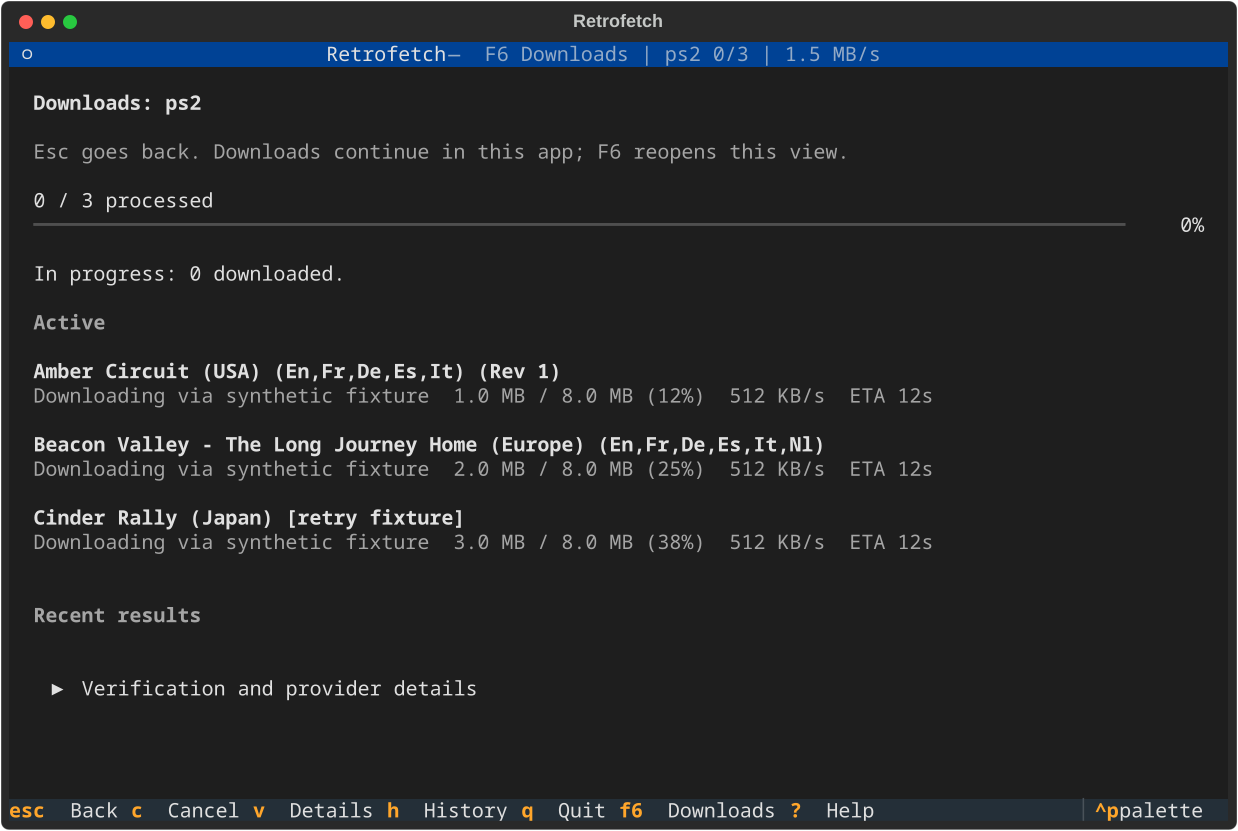
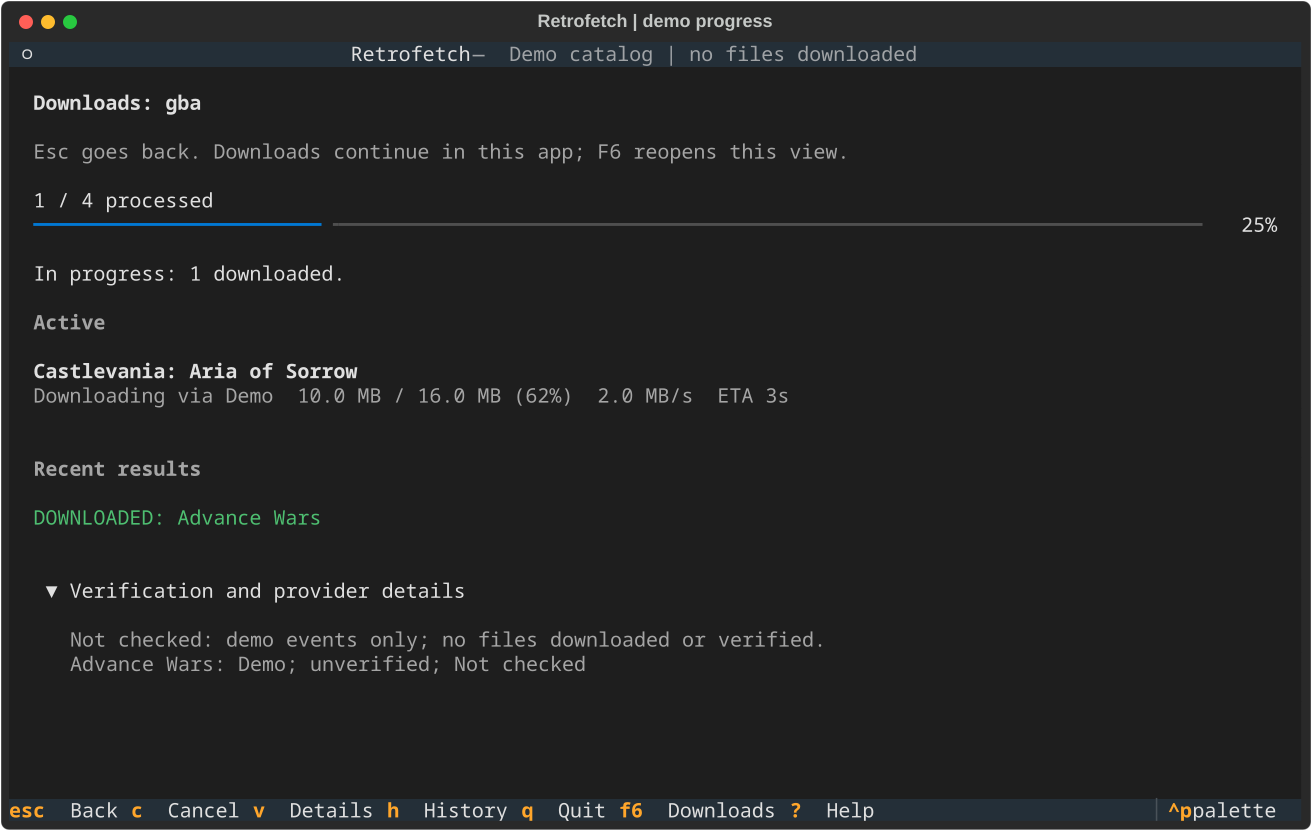
docs: remake README with current app screenshots

diff --git a/README.md b/README.md
@@ -1,127 +1,77 @@
 <p align="center">
-  <img src="docs/assets/retrofetch-logo.png" alt="Retrofetch logo" width="180">
+  <img src="docs/assets/retrofetch-logo.png" alt="Retrofetch logo" width="112">
 </p>
 
 <h1 align="center">Retrofetch</h1>
 
 <p align="center">
-  <strong>A keyboard-first retro game browser, downloader, and verifier.</strong>
+  A keyboard-first retro game browser, downloader, and verifier.
 </p>
 
 <p align="center">
-  <a href="https://github.com/veedy-dev/retrofetch/releases">Downloads</a>
-  &middot; <a href="#install">Setup guide</a>
-  &middot; <a href="#how-it-works">How it works</a>
-  &middot; <a href="#development-and-contributing">Develop and contribute</a>
+  <a href="#download">Download</a>
+  &middot; <a href="#quick-start">Quick start</a>
+  &middot; <a href="#development">Contribute</a>
 </p>
 
-<p align="center">
-  <img alt="Windows" src="https://img.shields.io/badge/Windows-10%2F11-0078D4?logo=windows11&logoColor=white">
-  <img alt="Linux" src="https://img.shields.io/badge/Linux-x86__64-FCC624?logo=linux&logoColor=black">
-  <img alt="macOS" src="https://img.shields.io/badge/macOS-13%2B-000000?logo=apple&logoColor=white">
-  <a href="LICENSE"><img alt="MIT license" src="https://img.shields.io/badge/License-MIT-2ea44f"></a>
-</p>
+![Browsing games and building a queue in Retrofetch](docs/assets/screenshot-library.png)
 
-Retrofetch brings game listings from supported archives and online providers into one terminal app. Search for a console, queue the games you want, and keep browsing while downloads run. It prepares your library; it is not an emulator.
+## Download
 
-Catalogs and download fallbacks follow your configured provider order. No-Intro/Redump naming helps organize listings; a catalog listing alone does not verify a file.
+Get the [latest release](https://github.com/veedy-dev/retrofetch/releases/latest). Packaged builds include Python—just download, extract or install, and open.
 
-> **Please note:** Retrofetch does not include games or firmware. Downloads come from configured archives and online providers, so availability can change. Only download content you are authorized to obtain, following local laws and each provider's terms.
+| Platform | Download | Launch |
+|---|---|---|
+| Windows | [Installer](https://github.com/veedy-dev/retrofetch/releases/latest/download/RetrofetchSetup.exe) · [Portable](https://github.com/veedy-dev/retrofetch/releases/latest/download/Retrofetch.exe) | Run the installer, or open the portable EXE. |
+| Linux x86-64 | [Archive](https://github.com/veedy-dev/retrofetch/releases/latest/download/Retrofetch-linux-x86_64.tar.gz) | Extract, then run `./run-retrofetch.sh`. |
+| macOS | [Apple Silicon](https://github.com/veedy-dev/retrofetch/releases/latest/download/Retrofetch-macos-arm64.tar.gz) · [Intel](https://github.com/veedy-dev/retrofetch/releases/latest/download/Retrofetch-macos-x86_64.tar.gz) | Extract, then Control-click `Retrofetch.command` and choose **Open**. |
 
-![Retrofetch library browser](docs/assets/screenshot-library.png)
+On first launch, choose your library folders. Torrent downloads need qBittorrent; Retrofetch offers setup when it is missing.
 
-## Install
+Builds are unsigned, so Windows or macOS may ask you to confirm the first launch. Download only from this repository.
 
-Choose a platform asset under **Assets** on the [Releases page](https://github.com/veedy-dev/retrofetch/releases), not the source-code ZIP or tarball. The packaged apps include Python.
+## Quick start
 
-### Windows
+1. **Browse.** Search consoles with `/`, then open one with `Enter` from the results.
+2. **Queue.** Press `Space` on games you want. `Ctrl+A` queues all matching results.
+3. **Download.** Press `Enter` to review the queue, then `Enter` again to start.
+4. **Keep browsing.** `Esc` leaves progress without stopping downloads; `F6` brings it back.
 
-1. Open the [Releases page](https://github.com/veedy-dev/retrofetch/releases).
-2. Download **`RetrofetchSetup.exe`**.
-3. Double-click the installer, then open Retrofetch from your desktop or Start menu.
-4. Choose where your games and BIOS files should be stored when the app first opens.
+Keep Retrofetch open while downloading. Quitting asks to stop active transfers safely.
 
-No Python installation or terminal commands are needed.
+## Download progress
 
-> Current builds are not code-signed yet, so Windows may show an **Unknown publisher** warning. Only download Retrofetch from this repository.
+![Completed, active, and queued downloads in Retrofetch](docs/assets/screenshot-download.png)
 
-Prefer a portable app? Download **`Retrofetch.exe`** from the same Releases page and double-click it.
+*Screenshots use demonstration data.*
 
-### Linux
+- Downloaded and already-present files leave the queue. Failed or cancelled items stay for retry.
+- Download history is saved; your selection queue starts fresh when you reopen the app.
+- **Not checked** means no matching DAT verification—not a failed download and not verified success.
+- Archives are kept by default. Extraction and BIOS downloads are separate opt-ins.
 
-1. Open the [Releases page](https://github.com/veedy-dev/retrofetch/releases).
-2. Download **`Retrofetch-linux-x86_64.tar.gz`** and extract it.
-3. Open a terminal in the extracted folder and run:
-
-```bash
-./run-retrofetch.sh
-```
-
-No Python installation is needed.
-
-### macOS
-
-1. Open the [Releases page](https://github.com/veedy-dev/retrofetch/releases).
-2. Download **`Retrofetch-macos-arm64.tar.gz`** for Apple Silicon or **`Retrofetch-macos-x86_64.tar.gz`** for an Intel Mac.
-3. Extract it, then Control-click **`Retrofetch.command`** and choose **Open**.
-
-No Python installation is needed. Current builds are unsigned, so macOS may ask you to confirm the first launch.
-
-Torrent downloads need separate qBittorrent software. If it is missing, Retrofetch offers a setup screen: Windows has WinGet and official-installer options; Linux/macOS offer the official download page and a retry after installation. Review the prompt and choose an option—setup is not silent, and the pending download continues only after qBittorrent is ready.
-
-## How it works
-
-1. Press `/` to search consoles, then `Enter` to focus results. Open the highlighted console with `Enter` or `g`.
-2. Search its games with `/`, move through results with the arrow keys, and press `Space` to queue individual games. `Ctrl+A` queues matching results; `s` shows only queued games.
-3. Press `Enter` from game results to review the queue. Remove unwanted entries with `x`, then press `Enter` to start.
-4. Follow progress, or press `Esc` to browse elsewhere. `F6` returns to current downloads.
-
-**Background downloads last only while Retrofetch remains open.** The header shows download status while you browse, and in-app notifications report completion or errors. Quitting asks to stop active downloads safely; it does not leave a downloader running after the app exits. Reopening resets game selections to a fresh queue but retains saved download history.
-
-![Retrofetch download progress](docs/assets/screenshot-download.png)
-
-Progress screen shown with locally generated demonstration data.
-
-## Basic controls
+## Keyboard shortcuts
 
 | Key | Action |
 |---|---|
-| Arrow keys | Move through lists |
-| `Enter` / `g` | Browse the highlighted console |
 | `/` | Search consoles or games |
 | `Space` | Add or remove a game from the queue |
-| `Ctrl+A` / `Ctrl+U` | Queue or remove all matching search results |
-| `s` | Show queued games in the browser; open History from Home |
-| `PageUp` / `PageDown` | Change pages in game results |
-| `r` | Refresh the browser catalog |
-| `x` | Exclude or restore a game in the browser; remove it in the queue |
-| `Enter` | Review the queue from game results; start from the queue |
-| `d` | Review the highlighted console’s queue from Home |
+| `Ctrl+A` / `Ctrl+U` | Queue or remove all matching results |
 | `F6` | Open current downloads |
-| `Esc` | Go back without stopping downloads |
-| `c` | Ask to cancel remaining downloads from the progress screen |
-| `v` / `h` | Show progress details or open download History |
-| `,` | Open settings from Home |
-| `b` | Open the optional BIOS download screen from Home |
-| `?` | Open contextual keyboard help |
-| `q` / `Ctrl+Q` / `Ctrl+C` | Quit, with confirmation for active downloads |
+| `Esc` | Go back |
+| `?` | Show contextual help |
+| `q` / `Ctrl+Q` | Quit |
 
-Available controls appear at the bottom of each screen. In search, `Enter` focuses results and `Esc` returns to results before going back.
+The footer lists the shortcuts available on each screen. In search fields, `Enter` focuses the results.
 
-Successfully downloaded and already-present files leave the pending queue automatically. Failed or cancelled games stay queued for retry. Verification status remains in progress Details and History: **Not checked** means no matching DAT verification was performed, not a failed download or verified success.
+## Development
 
-## Notes
+[Issues](https://github.com/veedy-dev/retrofetch/issues) and pull requests are welcome.
 
-- Some games may disappear when a provider removes a file or becomes unavailable.
-- Large arcade and bulk archive collections are not enabled yet because they need separate handling.
-- Torrent speed depends on the people sharing that file, not only your internet speed.
-- Archives are kept by default; extraction and BIOS downloads are explicit opt-ins.
+<details>
+<summary>Run from source, test, or build</summary>
 
-## Development and contributing
-
-Feature requests, bug reports, and pull requests are welcome. [Open an issue](https://github.com/veedy-dev/retrofetch/issues) to share an idea or report a problem.
-
-To work on Retrofetch locally, use Python **3.10–3.13**:
+Use Python **3.10–3.13**.
 
 ```bash
 git clone https://github.com/veedy-dev/retrofetch.git
@@ -129,7 +79,7 @@ cd retrofetch
 python -m venv .venv
 ```
 
-Activate the environment with `.\.venv\Scripts\Activate.ps1` on Windows or `. .venv/bin/activate` on Linux and macOS, then run:
+Activate with `. .venv/bin/activate` on Linux/macOS, or `.\.venv\Scripts\Activate.ps1` in Windows PowerShell. Then:
 
 ```bash
 python -m pip install -e ".[build]" pytest ruff==0.16.6 pyright
@@ -137,7 +87,7 @@ python -m retrofetch --help
 python -m retrofetch tui
 ```
 
-Run the same verification gates as release CI:
+Release verification gates:
 
 ```bash
 python -m pytest -q
@@ -145,17 +95,21 @@ python -m ruff check .
 pyright
 ```
 
-Build a portable app for the current operating system with:
+Build a portable app for the current platform:
 
 ```bash
 python -m PyInstaller --clean --noconfirm packaging/retrofetch.spec
 ```
 
-Build the Windows installer with:
+Build the Windows installer:
 
 ```powershell
 .\packaging\build_windows.ps1 -InstallTools
 ```
+
+</details>
+
+Retrofetch prepares your library; it is not an emulator. Games and firmware are not bundled. Use authorized content and respect source terms.
 
 ## License
 
